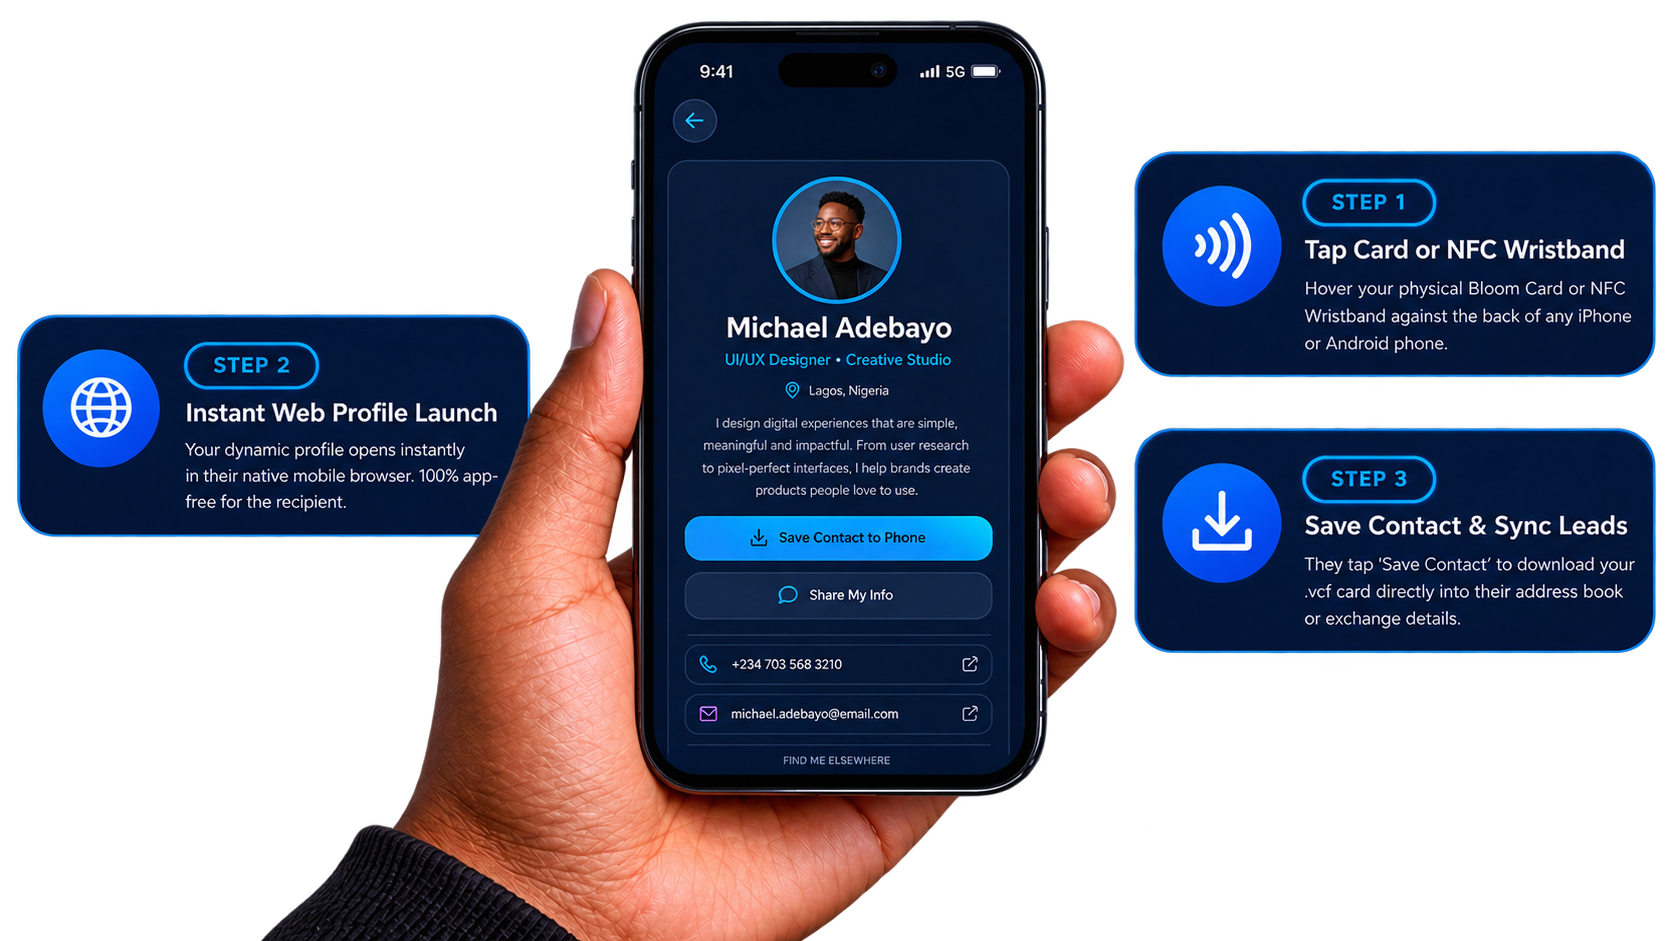
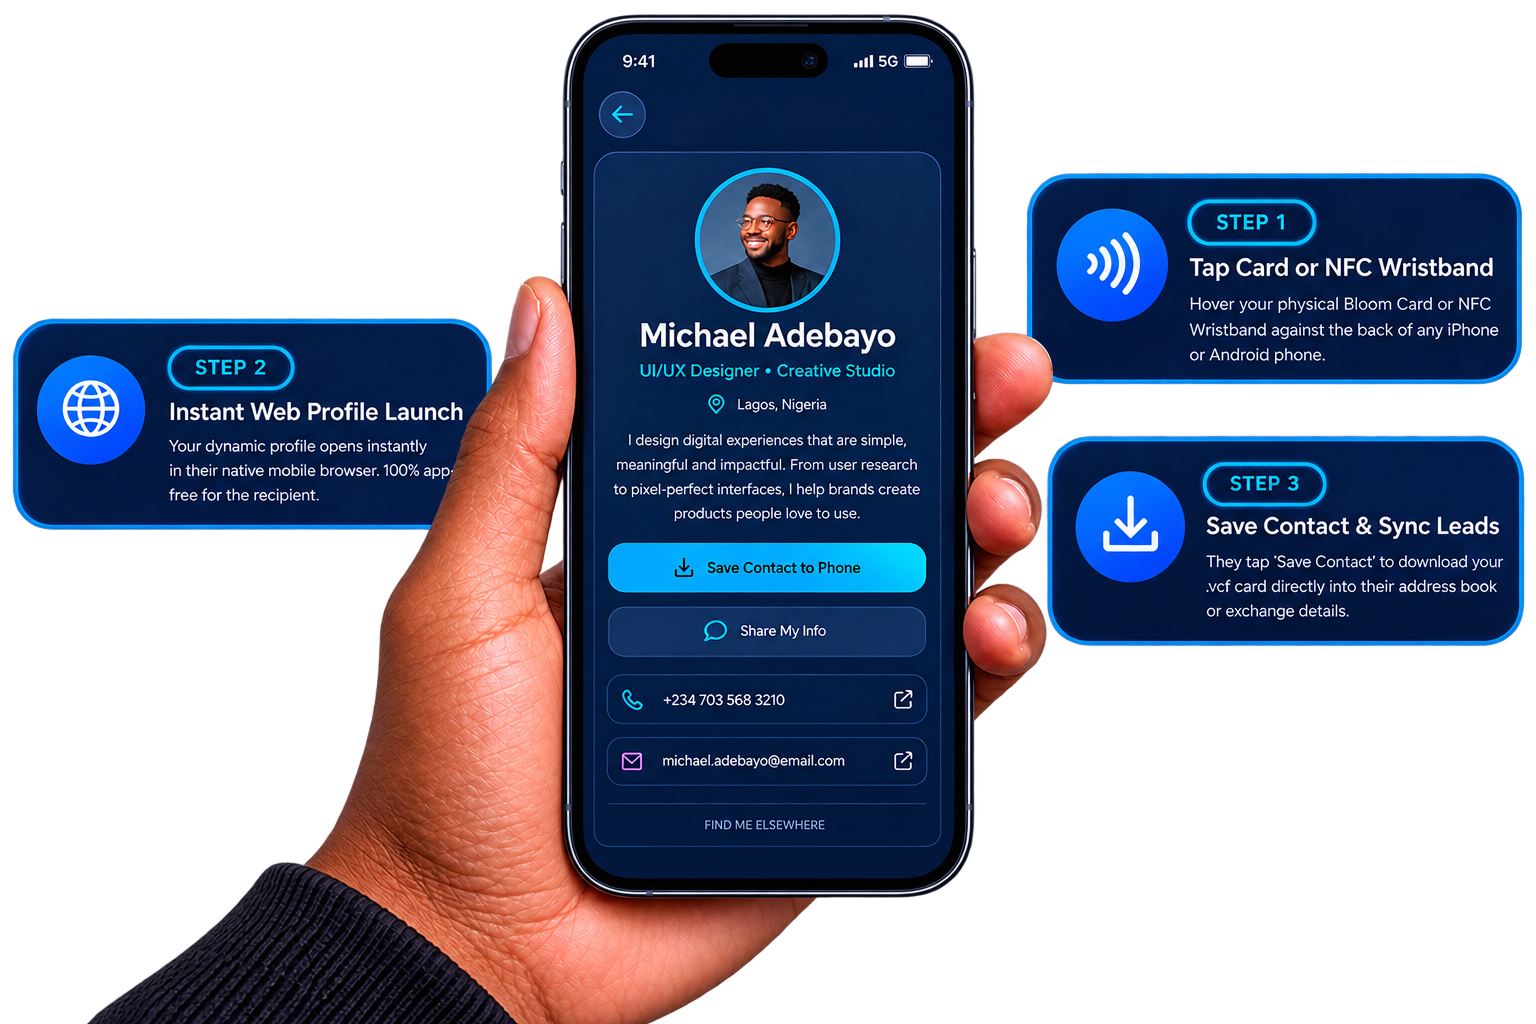
pages

diff --git a/src/components/hero/HeroShowcase.jsx b/src/components/hero/HeroShowcase.jsx
@@ -1,51 +1,55 @@
 import React from 'react';
 import { motion } from 'framer-motion';
 import phoneHandImg from '../../assets/images/phone-hand-new.png';
+import mobilePhoneHandImg from '../../assets/images/mobile-phone-hand-new.png';
 
 export const HeroShowcase = () => {
   return (
-    <section id="how-it-works" className="pt-16 sm:pt-24 pb-0 bg-[#070F1E] text-white relative overflow-hidden transition-colors">
+    <section id="how-it-works" className="pt-16 sm:pt-24 pb-0 bg-slate-50 dark:bg-[#070F1E] text-slate-900 dark:text-white relative overflow-hidden transition-colors">
       {/* Background Ambient Radial Glow */}
-      <div className="absolute top-1/2 left-1/2 -translate-x-1/2 -translate-y-1/2 w-[700px] h-[700px] bg-cyan-500/10 rounded-full blur-3xl pointer-events-none" />
+      <div className="absolute top-1/2 left-1/2 -translate-x-1/2 -translate-y-1/2 w-[700px] h-[700px] bg-blue-500/5 dark:bg-cyan-500/10 rounded-full blur-3xl pointer-events-none" />
 
+      {/* Header Container */}
       <div className="max-w-7xl mx-auto px-4 sm:px-6 lg:px-8 relative z-10 flex flex-col items-center">
-
         {/* Section Header */}
         <div className="text-center space-y-4 max-w-5xl mx-auto mb-10 sm:mb-14">
           <div className="flex flex-col sm:flex-row items-center justify-center gap-3 sm:gap-4">
-            <span className="text-[#00BCFF] text-xs font-extrabold tracking-wider uppercase shrink-0">
+            <span className="text-[#0066FF] dark:text-[#00BCFF] text-xs font-extrabold tracking-wider uppercase shrink-0">
               Seamless NFC Experience
             </span>
-            <span className="hidden sm:inline-block text-[#00BCFF] text-2xl sm:text-3xl font-extrabold select-none opacity-90">
+            <span className="hidden sm:inline-block text-[#0066FF] dark:text-[#00BCFF] text-2xl sm:text-3xl font-extrabold select-none opacity-90">
               |
             </span>
-            <h2 className="text-2xl sm:text-3xl md:text-4xl font-extrabold tracking-tight text-white">
+            <h2 className="text-2xl sm:text-3xl md:text-4xl font-extrabold tracking-tight text-slate-900 dark:text-white">
               Tap to Share. Collect Leads. Sync Instantly.
             </h2>
           </div>
-          <p className="text-xs sm:text-sm text-slate-400 max-w-xl mx-auto leading-relaxed">
+          <p className="text-xs sm:text-sm text-slate-600 dark:text-slate-400 max-w-xl mx-auto leading-relaxed">
             Experience how easy it is to share your contact details and build valuable professional connections in under half a second.
           </p>
         </div>
-
-        {/* Center Phone Hand Image Only - Flush with Bottom */}
-        <div className="w-full flex justify-center items-end z-20 overflow-visible">
-          <motion.div
-            initial={{ opacity: 0, scale: 0.95 }}
-            whileInView={{ opacity: 1, scale: 1 }}
-            viewport={{ once: true }}
-            transition={{ duration: 0.6 }}
-            className="w-full max-w-4xl sm:max-w-5xl lg:max-w-6xl relative flex justify-center items-end px-0 sm:px-2"
-          >
-            <img
-              src={phoneHandImg}
-              alt="Enlazer Contact Details Phone Showcase"
-              className="w-full h-auto object-contain max-h-[550px] sm:max-h-[750px] md:max-h-[1050px] lg:max-h-[1250px] scale-110 sm:scale-100 block align-bottom origin-bottom"
-            />
-          </motion.div>
-        </div>
-
       </div>
+
+      {/* Center Phone Hand Image - Full-Width Edge to Edge */}
+      <div className="w-full flex justify-center items-end z-20 overflow-visible px-0">
+        <motion.div
+          initial={{ opacity: 0, scale: 0.95 }}
+          whileInView={{ opacity: 1, scale: 1 }}
+          viewport={{ once: true }}
+          transition={{ duration: 0.6 }}
+          className="w-full relative flex justify-center items-end px-0"
+        >
+          <picture className="w-full flex justify-center items-end">
+            <source media="(min-width: 640px)" srcSet={phoneHandImg} />
+            <img
+              src={mobilePhoneHandImg}
+              alt="Enlazer Contact Details Phone Showcase"
+              className="w-full min-w-full h-auto object-cover sm:object-contain block align-bottom origin-bottom"
+            />
+          </picture>
+        </motion.div>
+      </div>
+
     </section>
   );
 };

diff --git a/src/components/hero/ConnectionBanner.jsx b/src/components/hero/ConnectionBanner.jsx
@@ -1,0 +1,70 @@
+import React from 'react';
+import { motion } from 'framer-motion';
+import { ArrowRight } from 'lucide-react';
+import { useApp } from '../../context/AppContext';
+import handshakeImg from '../../assets/images/handshake.png';
+
+export const ConnectionBanner = () => {
+  const { setCurrentPage } = useApp();
+
+  return (
+    <section className="py-16 sm:py-24 bg-white dark:bg-[#070F1E] text-slate-900 dark:text-white relative overflow-hidden transition-colors">
+      {/* Background Ambient Radial Glow - Dark mode ambient highlight */}
+      <div className="absolute top-1/2 left-1/2 -translate-x-1/2 -translate-y-1/2 w-[800px] h-[800px] hidden dark:block bg-cyan-500/10 rounded-full blur-3xl pointer-events-none" />
+
+      {/* Header Container */}
+      <div className="max-w-7xl mx-auto px-4 sm:px-6 lg:px-8 relative z-10 flex flex-col items-center">
+        
+        {/* Header Block */}
+        <div className="text-center space-y-4 max-w-4xl mx-auto mb-10 sm:mb-14">
+          {/* Tag + Heading with Vertical Divider */}
+          <div className="flex flex-col sm:flex-row items-center justify-center gap-3 sm:gap-4">
+            <span className="text-[#0066FF] dark:text-[#00BCFF] text-xs sm:text-sm font-extrabold tracking-wider uppercase shrink-0">
+              YOUR NEXT CONNECTION
+            </span>
+            <span className="hidden sm:inline-block text-[#0066FF] dark:text-[#00BCFF] text-2xl sm:text-3xl font-extrabold select-none opacity-90">
+              |
+            </span>
+            <h2 className="text-3xl sm:text-4xl md:text-5xl font-extrabold tracking-tight text-slate-900 dark:text-white">
+              Make every handshake stick.
+            </h2>
+          </div>
+
+          {/* Subtitle Description */}
+          <p className="text-xs sm:text-sm md:text-base text-slate-600 dark:text-slate-400 max-w-xl mx-auto leading-relaxed pt-1">
+            Choose your card, wristband, or both—personalised and delivered across Nigeria.
+          </p>
+
+          {/* CTA Button */}
+          <div className="pt-3 flex justify-center">
+            <button
+              onClick={() => setCurrentPage('cards')}
+              className="inline-flex items-center gap-2 px-8 py-3.5 rounded-full bg-[#0066FF] hover:bg-blue-700 text-white dark:bg-[#00BCFF] dark:hover:bg-cyan-400 dark:text-slate-950 font-black text-xs sm:text-sm uppercase tracking-wider shadow-xl shadow-blue-500/20 dark:shadow-cyan-500/25 hover:scale-105 active:scale-95 transition-all cursor-pointer group"
+            >
+              <span>Order from Enlazer</span>
+              <ArrowRight className="w-4 h-4 text-white dark:text-slate-950 group-hover:translate-x-1 transition-transform" />
+            </button>
+          </div>
+        </div>
+
+      </div>
+
+      {/* Full-Width Image Container - Stretches to Left & Right Screen Edges */}
+      <motion.div
+        initial={{ opacity: 0, y: 25, scale: 0.98 }}
+        whileInView={{ opacity: 1, y: 0, scale: 1 }}
+        viewport={{ once: true }}
+        transition={{ duration: 0.7 }}
+        className="w-full relative flex justify-center items-center px-0 overflow-hidden z-10"
+      >
+        <img
+          src={handshakeImg}
+          alt="Enlazer NFC Wristband and Smart Phone Tap Connection Handshake Showcase"
+          className="w-full min-w-full h-auto object-cover block mix-blend-multiply dark:mix-blend-normal [mask-image:linear-gradient(to_bottom,transparent_0%,black_6%,black_94%,transparent_100%)] [-webkit-mask-image:linear-gradient(to_bottom,transparent_0%,black_6%,black_94%,transparent_100%)]"
+        />
+      </motion.div>
+    </section>
+  );
+};
+
+export default ConnectionBanner;

diff --git a/src/App.jsx b/src/App.jsx
@@ -5,6 +5,7 @@ import { isAppDomain, isMarketingDomain, getMarketingDomainUrl, getAppDomainUrl 
 
 import Navbar from './components/layout/Navbar';
 import HeroSection from './components/hero/HeroSection';
+import ConnectionBanner from './components/hero/ConnectionBanner';
 import HeroShowcase from './components/hero/HeroShowcase';
 import Testimonials from './components/hero/Testimonials';
 import FaqSection from './components/faq/FaqSection';
@@ -40,6 +41,7 @@ export const HomePage = () => {
       <Navbar />
       <main>
         <HeroSection />
+        <ConnectionBanner />
         <HeroShowcase />
         <Testimonials />
         <FaqSection />
